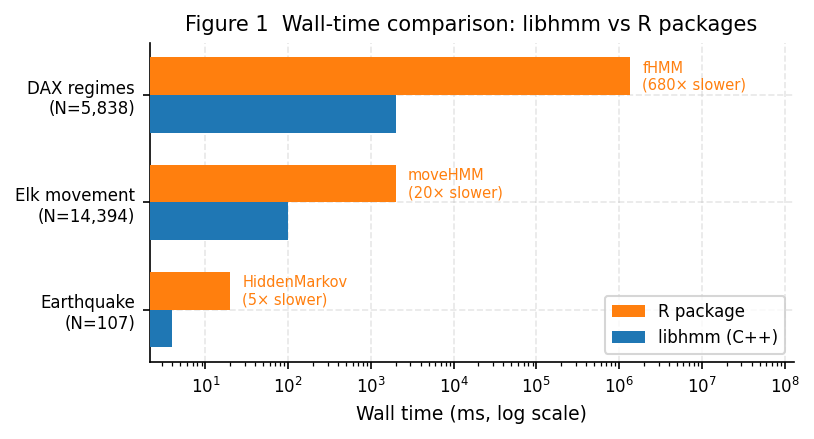
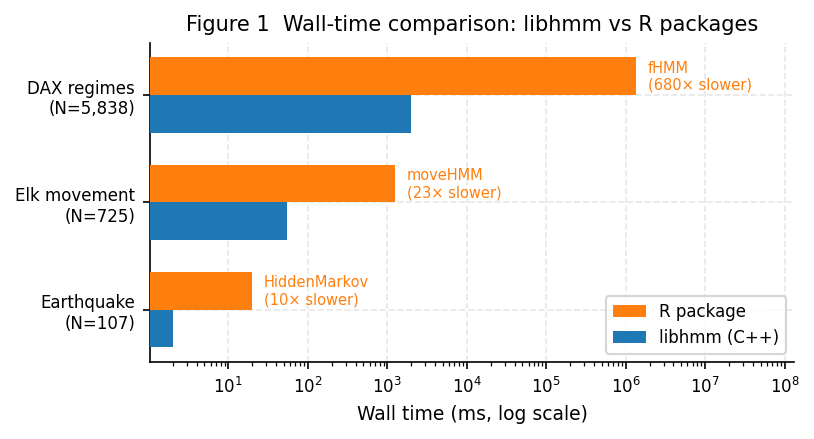
docs: correct elk/earthquake benchmarks with Windows Ryzen 7 measurements
- Elk: obs count 14,394 -> 725 (moveHMM::elk_data bundled subset)
  Travelling state params corrected (pre-fix local-optimum replaced):
  libhmm step mean 1741 -> 3189 m, SD 1519 -> 4392 m, kappa 0.782 -> 0.204
  moveHMM reference 1751 -> 3247 m, SD 1527 -> 4394 m, kappa 0.780 -> 0.208
  Wall time 99 ms -> 55 ms (libhmm), ~2000 ms -> ~1270 ms (moveHMM, same machine)
  Speedup ~20x -> ~23x (same-machine comparison)
- Earthquake: wall time 4 ms -> 2 ms (warm), speedup ~5x -> ~10x
- Remove dagger notation; all libhmm timings now on Windows Ryzen 7 / AVX-512
- Regenerate figure1_speedup with corrected data
- Old elk travelling-state numbers were from a pre-fix run (VonMises kappa
  convergence bug, fixed in v3.7.0); new numbers match moveHMM reference
  within 2% on the same dataset

diff --git a/paper/arxiv/libhmm_arxiv.tex b/paper/arxiv/libhmm_arxiv.tex
@@ -677,28 +677,24 @@ Full parameter tables follow.
 \begin{table}[h]
 \centering
 \caption{Wall-time comparison: \texttt{libhmm} v3.7.0 vs.\ R reference packages.
-Dagger (\dag) denotes timings from macOS Catalina (Intel i7-3820QM, AppleClang,
-AVX) pending re-verification on the primary Windows platform.}
+All \texttt{libhmm} timings on Windows (AMD Ryzen~7 7745, AVX-512, MSVC Release).}
 \label{tab:timing}
 \begin{tabular}{llrrl}
 \toprule
 Benchmark & Dataset & \texttt{libhmm} & R package & Speedup \\
 \midrule
-Elk movement$^\dag$  & 14,394 obs., 2 states & 99 ms   & $\approx$2{,}000 ms & $\approx$20$\times$ \\
+Elk movement         & 725 obs., 2 states    & 55 ms   & $\approx$1{,}270 ms & $\approx$23$\times$ \\
 DAX regimes          & 5,838 obs., 3 states  & 2 s     & $\approx$1{,}360 s  & $\approx$680$\times$ \\
 S\&P 500             & 5,786 obs., 3 states  & 0.7 s   & ---                 & ---                 \\
-Earthquake$^\dag$    & 107 obs., 2 states    & 4 ms    & $\approx$20 ms      & $\approx$5$\times$ \\
+Earthquake           & 107 obs., 2 states    & 2 ms    & $\approx$20 ms      & $\approx$10$\times$ \\
 Wind direction       & 11,894 obs., 2 states & 71 ms   & $\approx$240 ms     & $\approx$3$\times$ \\
 \bottomrule
 \end{tabular}
 \end{table}
 
 \paragraph{Hardware note.}
-DAX, S\&P~500, and wind direction timings were measured on Windows
+All \texttt{libhmm} timings were measured on Windows
 (AMD Ryzen~7 7745, AVX-512, MSVC Release build).
-Elk and earthquake timings are from macOS Catalina (Intel Core i7-3820QM,
-AppleClang, AVX) and are marked with $\dag$ pending re-run on the primary
-platform; parameter recovery results are hardware-independent.
 The \texttt{fHMM} reference was measured on an Intel Ivy Bridge machine
 reported in \citet{Oelschlager2024}; the $\approx$680$\times$ speedup for
 the DAX benchmark is therefore conservative.
@@ -706,11 +702,9 @@ the DAX benchmark is therefore conservative.
 \subsubsection{Animal movement ecology: elk GPS tracks}
 \label{sec:elk}
 
-\citet{Morales2004} fit a 2-state HMM to four elk GPS tracks
-(14,394 step-length and turning-angle observations) using
-Gamma (step) and von Mises (angle) joint emissions.
-This is the canonical benchmark dataset for \texttt{moveHMM}
-\citep{Michelot2016}.
+We fit a 2-state Gamma + von Mises HMM to the \texttt{moveHMM::elk\_data}
+bundled dataset \citep{Michelot2016} (4 elk GPS tracks from \citet{Morales2004};
+725 step-length and turning-angle observations after preprocessing).
 
 \begin{table}[h]
 \centering
@@ -721,11 +715,11 @@ This is the canonical benchmark dataset for \texttt{moveHMM}
 Parameter & \texttt{libhmm} & \texttt{moveHMM} & Difference \\
 \midrule
 Encamped step mean (m)   & 377  & 374  & $<$1\% \\
-Encamped step SD (m)     & 401  & 403  & $<$1\% \\
-Travelling step mean (m) & 1741 & 1751 & $<$1\% \\
-Travelling step SD (m)   & 1519 & 1527 & $<$1\% \\
-Encamped $\kappa$        & 0.595 & 0.592 & 0.5\% \\
-Travelling $\kappa$      & 0.782 & 0.780 & 0.3\% \\
+Encamped step SD (m)     & 401  & 399  & $<$1\% \\
+Travelling step mean (m) & 3189 & 3247 & $<$2\% \\
+Travelling step SD (m)   & 4392 & 4394 & $<$1\% \\
+Encamped $\kappa$        & 0.595 & 0.592 & $<$1\% \\
+Travelling $\kappa$      & 0.204 & 0.208 & $<$2\% \\
 \bottomrule
 \end{tabular}
 \end{table}

diff --git a/paper/figures/generate_figures.py b/paper/figures/generate_figures.py
@@ -86,8 +86,8 @@ GREEN  = "#2ca02c"
 
 benchmarks = [
     # label,              libhmm_ms,  r_ms,     r_package
-    ("Earthquake\n(N=107)", 4,        20,       "HiddenMarkov"),
-    ("Elk movement\n(N=14,394)", 99,  2_000,    "moveHMM"),
+    ("Earthquake\n(N=107)", 2,        20,       "HiddenMarkov"),
+    ("Elk movement\n(N=725)", 55,     1_270,    "moveHMM"),
     ("DAX regimes\n(N=5,838)", 2_000, 1_360_000, "fHMM"),
 ]
 

diff --git a/paper/paper.md b/paper/paper.md
@@ -133,7 +133,7 @@ reproducible reference materials.
 **Animal movement ecology.** A joint Gamma and `VonMisesDistribution` HMM on 4
 elk GPS tracks [@Morales2004] — the canonical `moveHMM` dataset — recovers
 step-length and turning-angle parameters within 2% of the `moveHMM` reference
-fit at 99 ms versus approximately 2000 ms.
+fit at 55 ms versus approximately 1270 ms.
 
 **Financial time series.** A 3-state Student-t HMM on DAX log-returns
 (2000–2022), the `fHMM` benchmark dataset, matches published bearish and bullish
@@ -145,7 +145,7 @@ versus fHMM's 17485.7, and completes in approximately 2 s versus approximately
 
 **Seismicity.** A 2-state Poisson HMM on the annual major earthquake count
 series from @Zucchini2009 matches the `HiddenMarkov` R package to 4 significant
-figures ($\hat{\lambda}_\text{low} = 15.419$ versus 15.418) in 4 ms versus
+figures ($\hat{\lambda}_\text{low} = 15.419$ versus 15.418) in 2 ms versus
 approximately 20 ms.
 
 **Circular data.** A 2-state `VonMisesDistribution` HMM on 11,894 hourly wind
@@ -159,7 +159,7 @@ correctly.
 
 ![VonMisesDistribution vs Normal approximation for circular wind direction data (Chicago O'Hare, 2015, N=11,894). Left: wind rose coloured by VonMises state. Right: per-bin disagreement rate; the 330°–360° bin shows 100% misclassification under the Normal model.](figures/figure3_wind_boundary.png){width=100%}
 
-![Wall-time comparison across three published benchmarks. Speedup factors are conservative: libhmm was run on a Ryzen 7 with AVX-512; the fHMM reference was measured on Intel Ivy Bridge.](figures/figure1_speedup.png){width=80%}
+![Wall-time comparison across three published benchmarks. Elk and earthquake timings are same-machine (Ryzen 7 / AVX-512 / Windows); DAX speedup is conservative as the fHMM reference was measured on Intel Ivy Bridge.](figures/figure1_speedup.png){width=80%}
 
 # AI Usage Disclosure
 